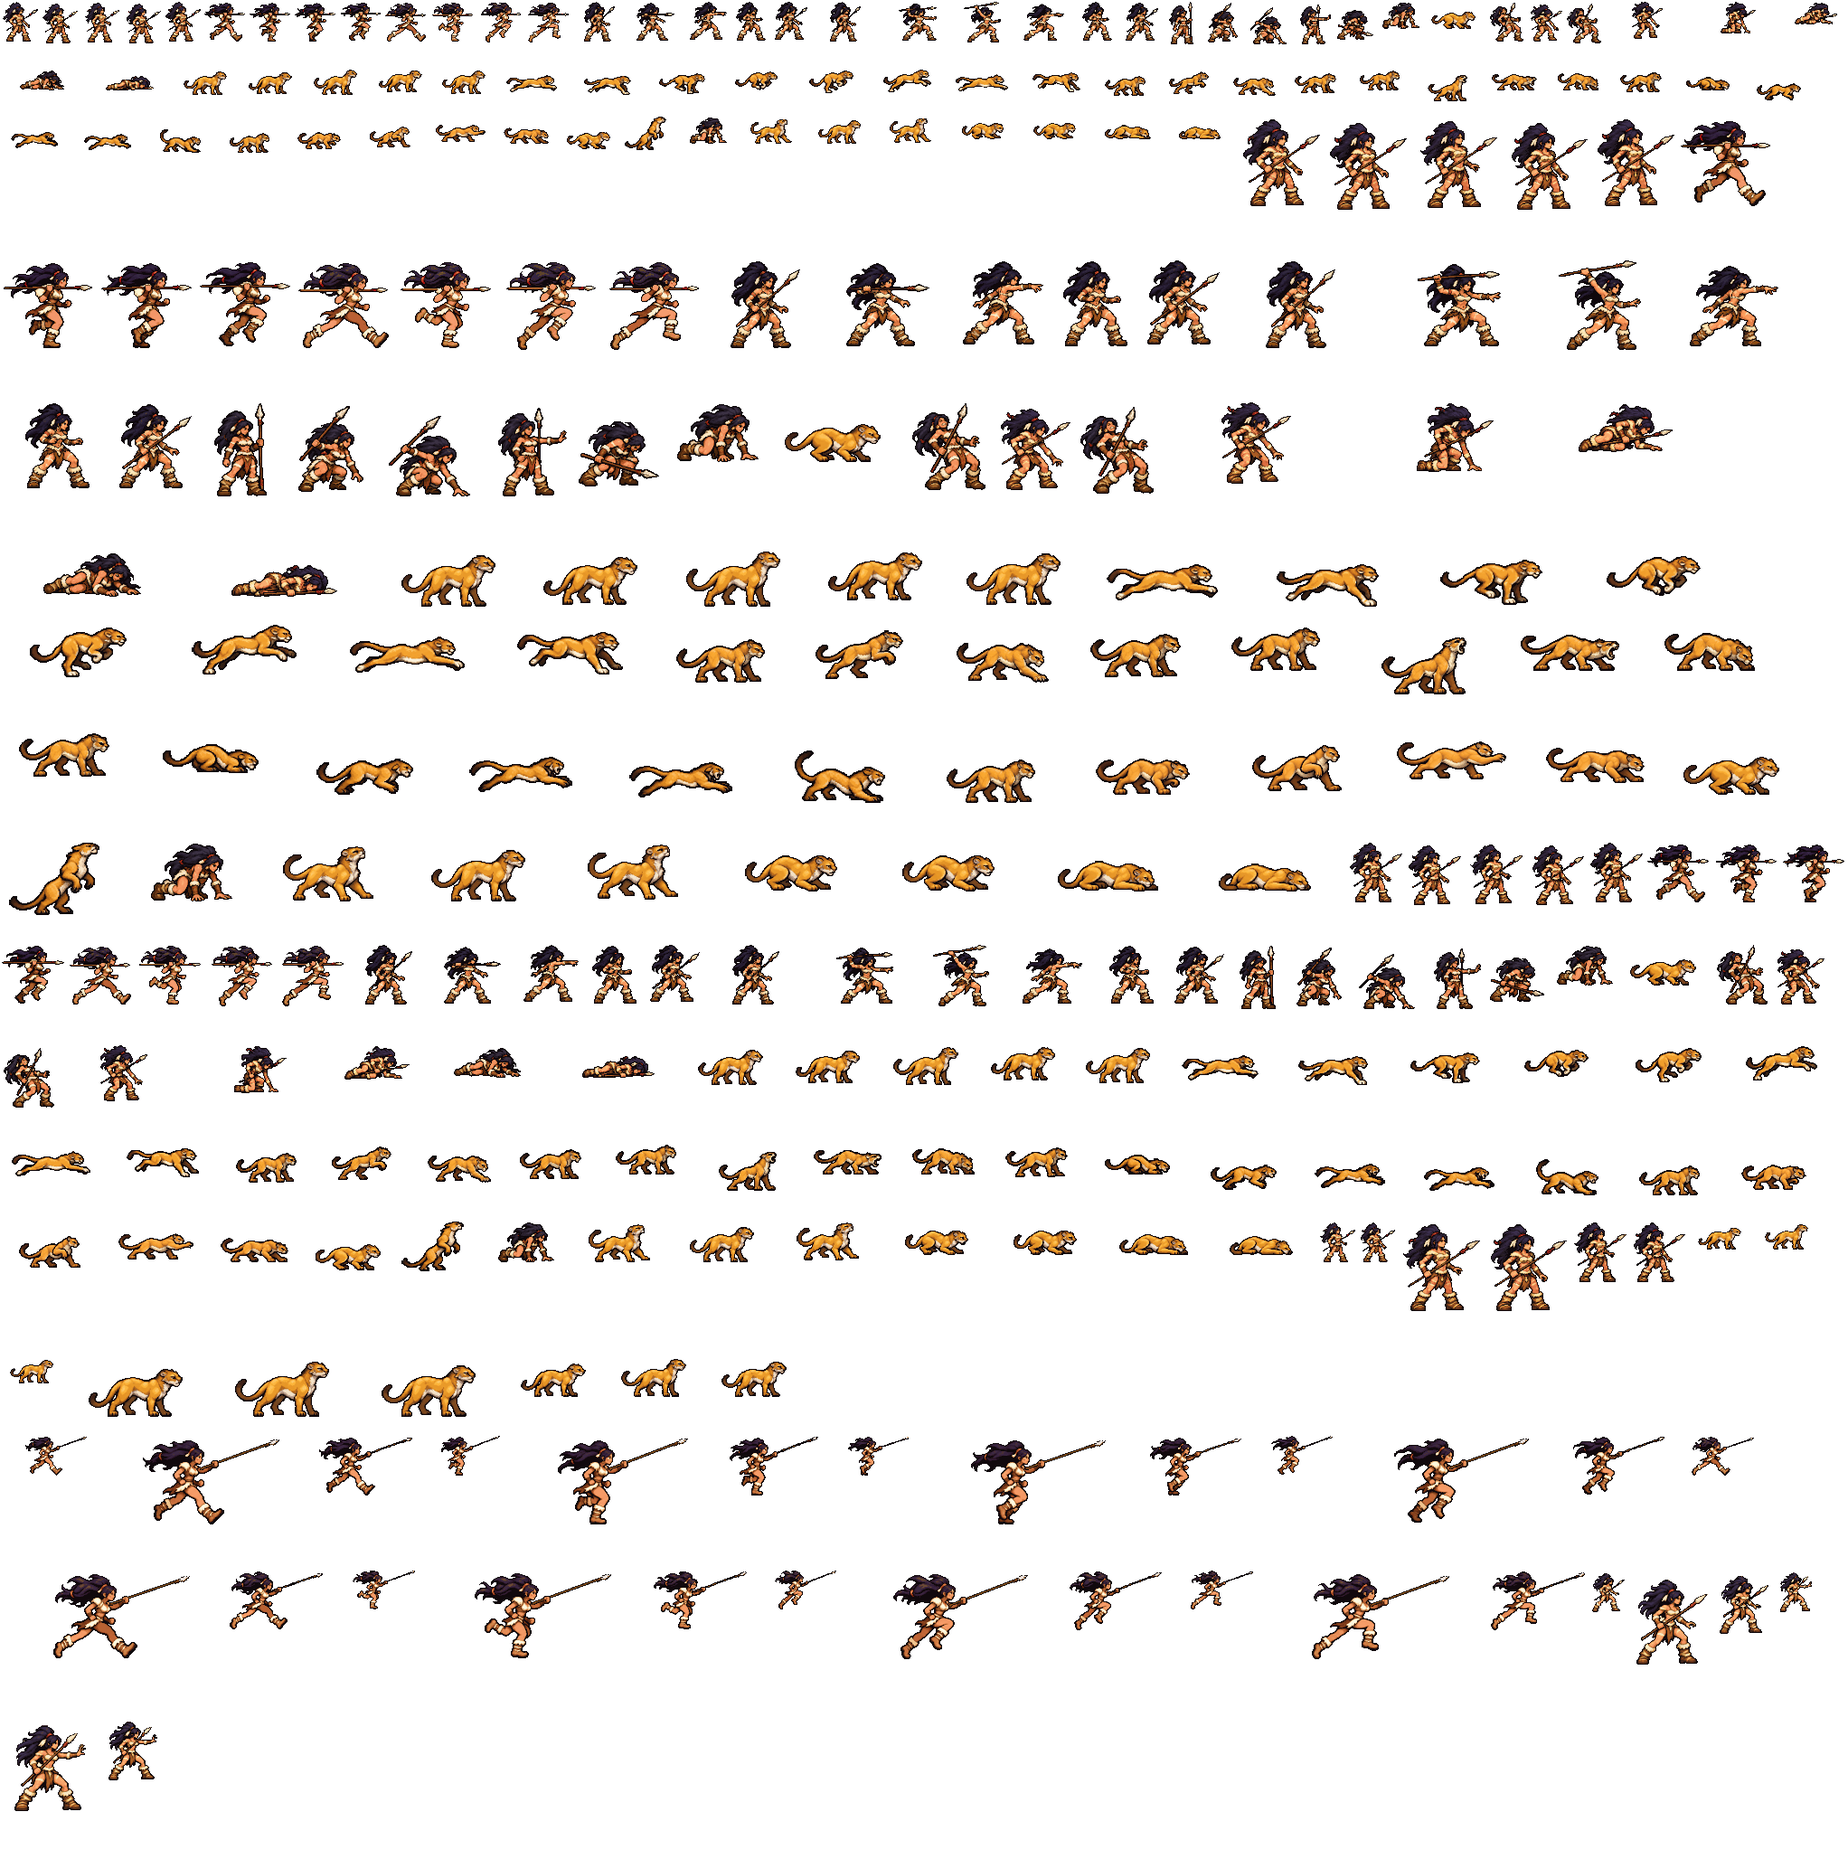
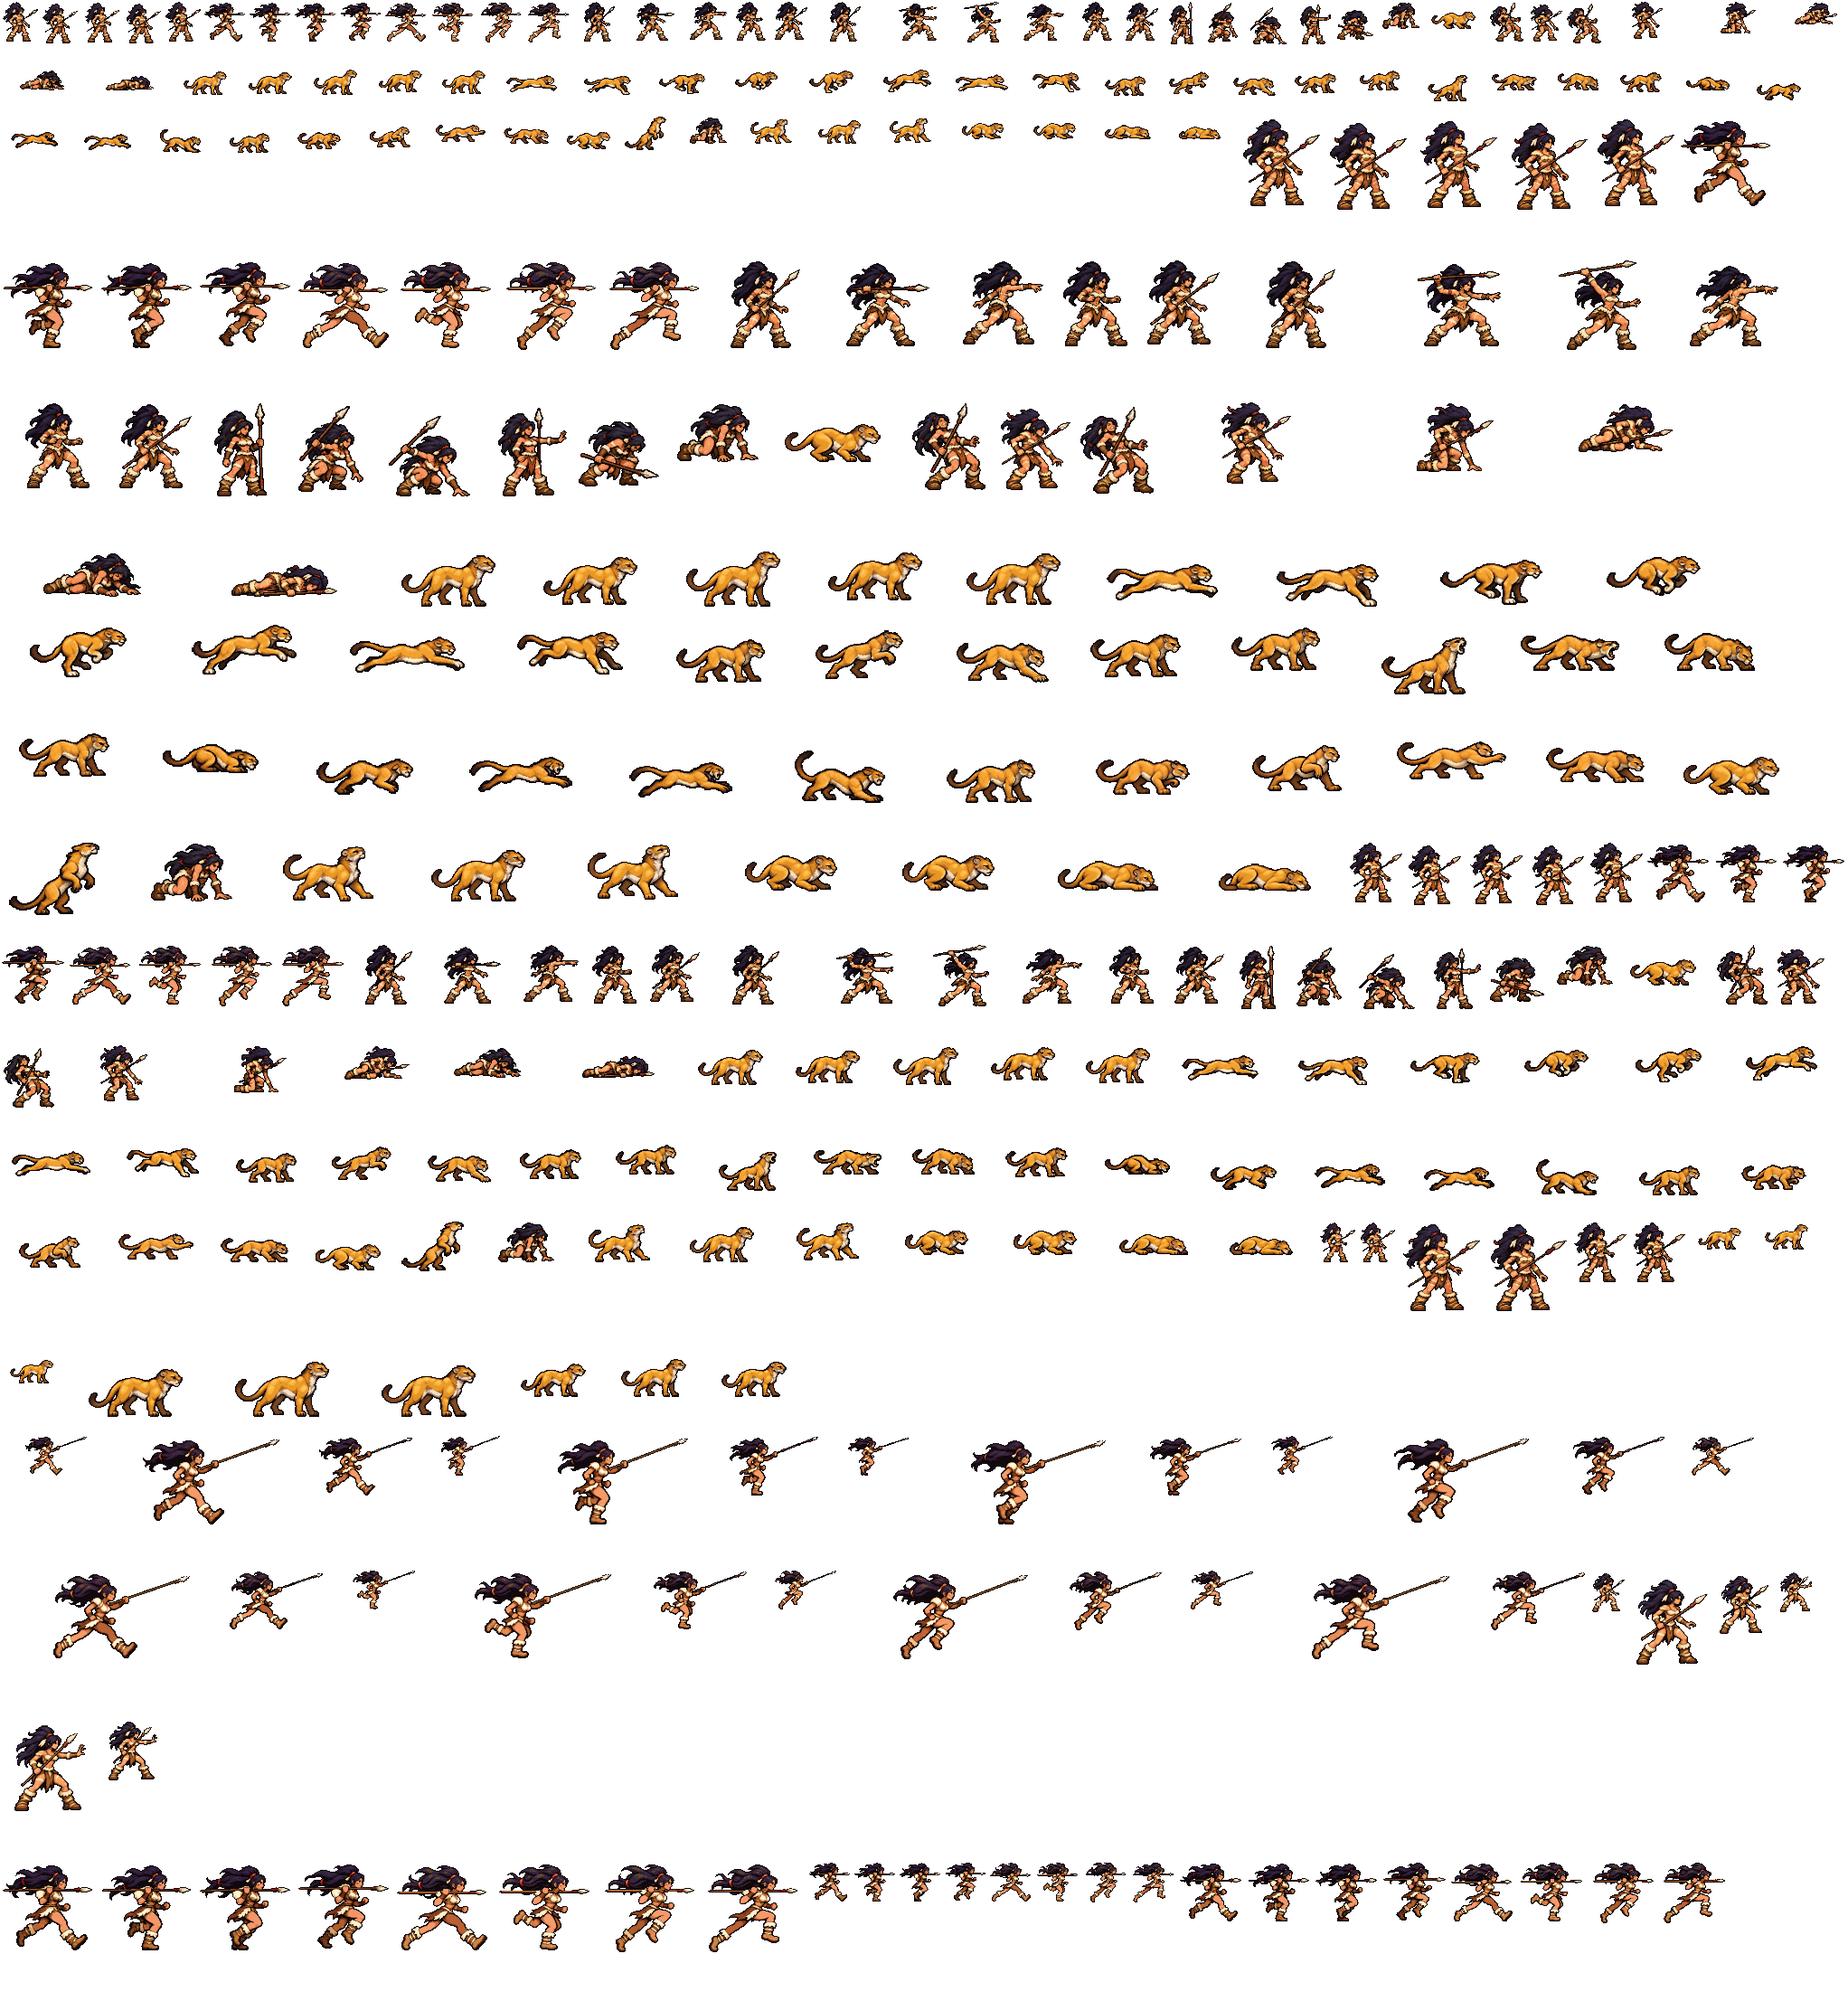
奈德丽跑步：保留扛枪姿势（02b3aa862 那套），第 4-7 帧枪杆在手右边被毛领盖住的一段补到脸前（用户：「枪看起来在脸的另外一边」）
tools/fix/gpt784_review/nidalee_run_spear.py --from 02b3aa862 放回扛枪跑步，在每行枪杆上把被盖住的一段涂成枪杆右边第一段的颜色，1x / lo_ 从高清帧重算，条带重写；--check 通过。

diff --git a/tools/fix/gpt784_review/nidalee_run_spear.py b/tools/fix/gpt784_review/nidalee_run_spear.py
@@ -1,0 +1,125 @@
+"""league_nidalee's run, the spear on her near shoulder in every frame (the user, 2026-11-19: 「豹女跑步保持这个姿势就行了
+我指出的问题是枪看起来在脸的另外一边」). GPT's shoulder-carry run (0be7fa6ab, kept on #784 until bdbda7d47 swapped it for a
+spear held out in front - not wanted) draws the shaft across her neck in front in frames 0-3, but in frames 4-7 a span
+of 5-9 squares right of her gripping hand is covered by her fur collar and hair: the shaft seems to pass behind her
+head. Here:
+
+1. `--from REV` puts that run back: the run's hd_, 1x and lo_ frames of REV's sheet in the sheet (rects of their own);
+2. in each dense frame, on each shaft row (the rows where a long brown run lies left of her hand), the covered span
+   between her hand's right edge and where the shaft shows again is painted with that row's first shaft colour past the
+   span, and a light square just over / under it takes the darkest colour beside it (the shaft's own outline, as over
+   her neck in frames 0-3);
+3. 1x and lo_ derived again from the dense frames (tools/fix/xinzhao_galio_1119/sheetkit.py), the strips rewritten.
+
+    python tools/fix/gpt784_review/nidalee_run_spear.py --from 02b3aa862
+    python tools/fix/gpt784_review/nidalee_run_spear.py --check
+"""
+import io
+import json
+import os
+import subprocess
+import sys
+
+import numpy as np
+from PIL import Image
+
+ROOT = os.path.normpath(os.path.join(os.path.dirname(os.path.abspath(__file__)), "..", "..", ".."))
+sys.path.insert(0, os.path.join(ROOT, "tools", "fix", "xinzhao_galio_1119"))
+from sheetkit import Kit  # noqa: E402
+
+STEM = "league/champions/league_nidalee"
+
+
+def shaft_px(p):
+    r, g, b = int(p[0]), int(p[1]), int(p[2])
+    return p[3] > 0 and r > 90 and r < 215 and r - b > 50 and g < 130
+
+
+def skin_px(p):
+    r, g, b = int(p[0]), int(p[1]), int(p[2])
+    return p[3] > 0 and r > 200 and 120 <= g <= 195 and 70 <= b <= 165 and 45 <= r - b <= 150
+
+
+# the covered span right of her hand, per dense run frame (read off the 0be7fa6ab frames on a grid: her hand's skin ends
+# at the first column, the shaft shows clean again after the last); frames 0-3 draw it across her neck already
+SPANS = {4: (60, 74), 5: (57, 62), 6: (61, 67), 7: (57, 61)}
+
+
+def shaft_rows(c):
+    h = c.shape[0]
+    return [r for r in range(20, min(h, 45)) if sum(shaft_px(c[r, x]) for x in range(18, 36)) >= 6]
+
+
+def spans(c, i):
+    """[(row, x0, x1, colour)]: on each shaft row, the span to paint and the row's commonest shaft colour just past it"""
+    if i not in SPANS:
+        return [], []
+    x0, x1 = SPANS[i]
+    rows = shaft_rows(c)
+    out = []
+    for r in rows:
+        if all(shaft_px(c[r, x]) for x in range(x0, x1 + 1)):
+            continue
+        cols = [tuple(int(v) for v in c[r, x]) for x in range(x1 + 1, min(c.shape[1], x1 + 12)) if shaft_px(c[r, x])]
+        if not cols:
+            continue
+        col = max(set(cols), key=cols.count)
+        out.append((r, x0, x1, np.array(col, np.uint8)))
+    return out, rows
+
+
+def paint(c, i):
+    new = c.copy()
+    sp, rows = spans(c, i)
+    for r, x0, x1, col in sp:
+        for x in range(x0, x1 + 1):
+            new[r, x] = col
+    if sp:
+        top, bot = min(s[0] for s in sp), max(s[0] for s in sp)
+        for r in (top - 1, bot + 1):
+            for _, x0, x1, _ in sp:
+                for x in range(x0, x1 + 1):
+                    p = new[r, x]
+                    if p[3] > 0 and int(p[0]) + int(p[1]) + int(p[2]) > 360:
+                        nb = [new[rr, xx] for rr in (r - 1, r, r + 1) for xx in (x - 1, x, x + 1)
+                              if (rr, xx) != (r, x) and new[rr, xx, 3] > 0]
+                        new[r, x] = min(nb, key=lambda q: int(q[0]) + int(q[1]) + int(q[2]))
+    return new, sp
+
+
+def restore(k, rev):
+    def show(path):
+        return subprocess.run(["git", "-C", ROOT, "show", f"{rev}:{path}"], capture_output=True, check=True).stdout
+    sheet = np.asarray(Image.open(io.BytesIO(show(STEM + "#sheet.png"))).convert("RGBA"))
+    an = json.loads(show(STEM + "#anim.fanim").decode("utf-8-sig"))["anims"]
+    for pre in ("hd_", "", "lo_"):
+        for i, f in enumerate(an[pre + "run"]["frames"]):
+            d = f["data"]
+            x, y, w, h = (int(round(d[q])) for q in ("x", "y", "w", "h"))
+            k.put(pre + "run", i, sheet[y:y + h, x:x + w].copy())
+    k.save()
+
+
+def main():
+    k = Kit(ROOT, "league", "nidalee")
+    n = len(k.anims["hd_run"]["frames"])
+    if "--check" in sys.argv:
+        bad = sum(1 for i in range(n) if spans(k.cell("hd_run", i), i)[0])
+        bad += sum(1 for i in range(n) if not np.array_equal(k.lo_of(k.cell("run", i).shape[:2], k.cell("hd_run", i)), k.cell("lo_run", i)))
+        print("nidalee run spear: OK" if not bad else f"nidalee run spear: {bad} frames not as this tool leaves them")
+        sys.exit(1 if bad else 0)
+    if "--from" in sys.argv:
+        restore(k, sys.argv[sys.argv.index("--from") + 1])
+        k = Kit(ROOT, "league", "nidalee")
+    for i in range(n):
+        new, sp = paint(k.cell("hd_run", i), i)
+        print(f"run[{i}]: " + (", ".join(f"row {r} x {a}-{b}" for r, a, b, _ in sp) or "shaft already in front"))
+        k.put("hd_run", i, new)
+    for i in range(n):
+        k.derive("run", i)
+    k.save()
+    k.strip("run")
+
+
+if __name__ == "__main__":
+    main()
